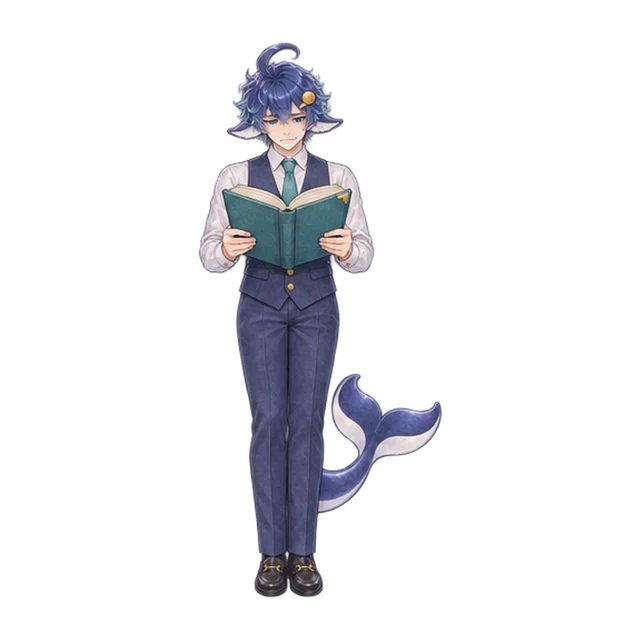
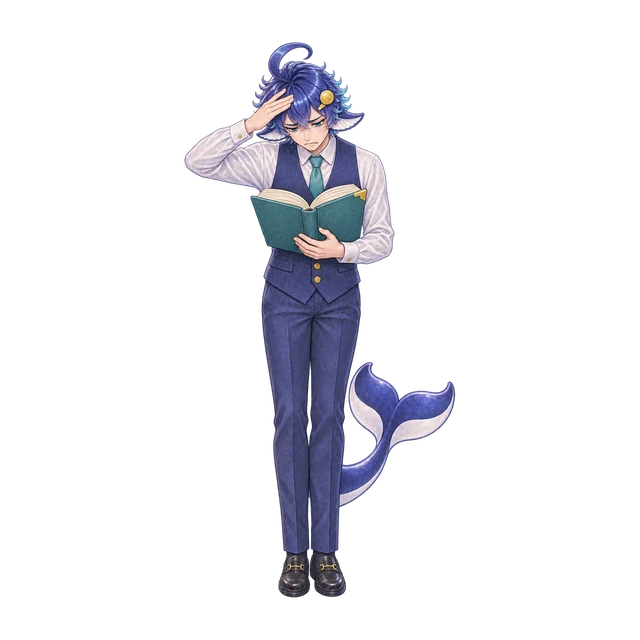
秘书形象男生版：担心表情更明显，小星张嘴帧去掉旧笑线

Changed region(s): [[0.2812, 0.0625, 0.7188, 0.9375]]

diff --git a/Sources/LedgerUI/MascotData.swift b/Sources/LedgerUI/MascotData.swift
@@ -35,7 +35,7 @@ enum MascotData {
         "xiaxia-biz-boy-sharp": (0.485, 0.193, 0.21),
         "xiaxia-biz-boy-sleep": (0.451, 0.273, 0.21),
         "xiaxia-biz-boy-think": (0.436, 0.192, 0.21),
-        "xiaxia-biz-boy-worried": (0.448, 0.196, 0.21),
+        "xiaxia-biz-boy-worried": (0.456, 0.181, 0.21),
         "xiaxia-biz-boy-write": (0.468, 0.186, 0.21),
         "xiaxia-biz-calm": (0.489, 0.214, 0.21),
         "xiaxia-biz-celebrate": (0.489, 0.217, 0.21),
